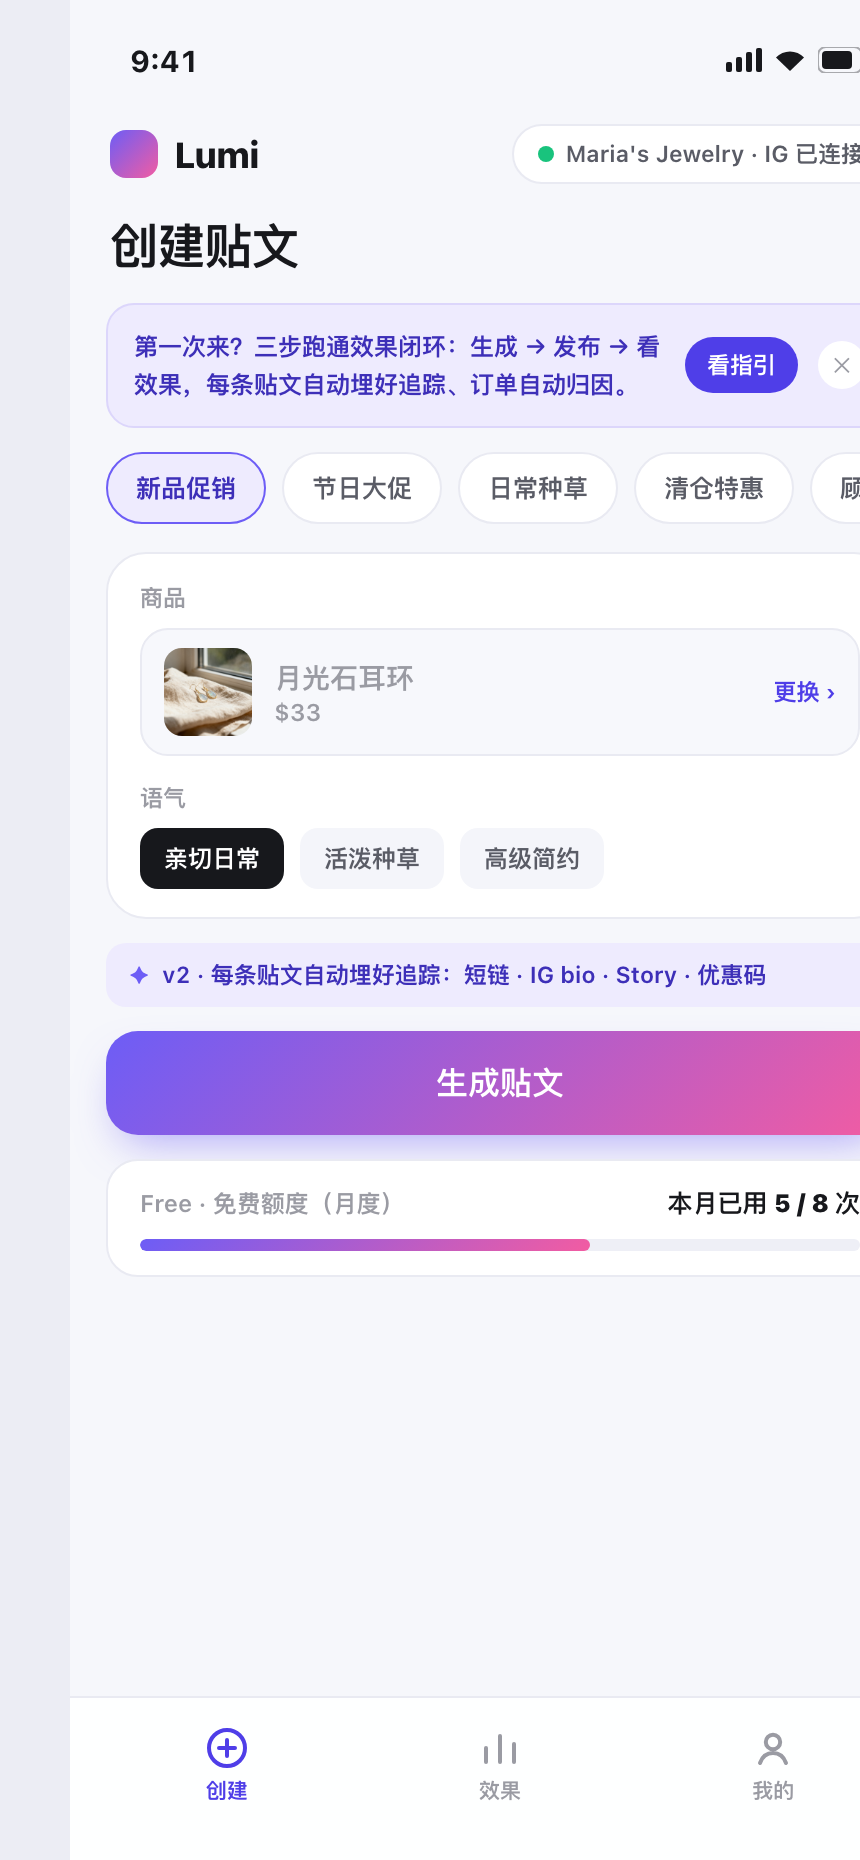
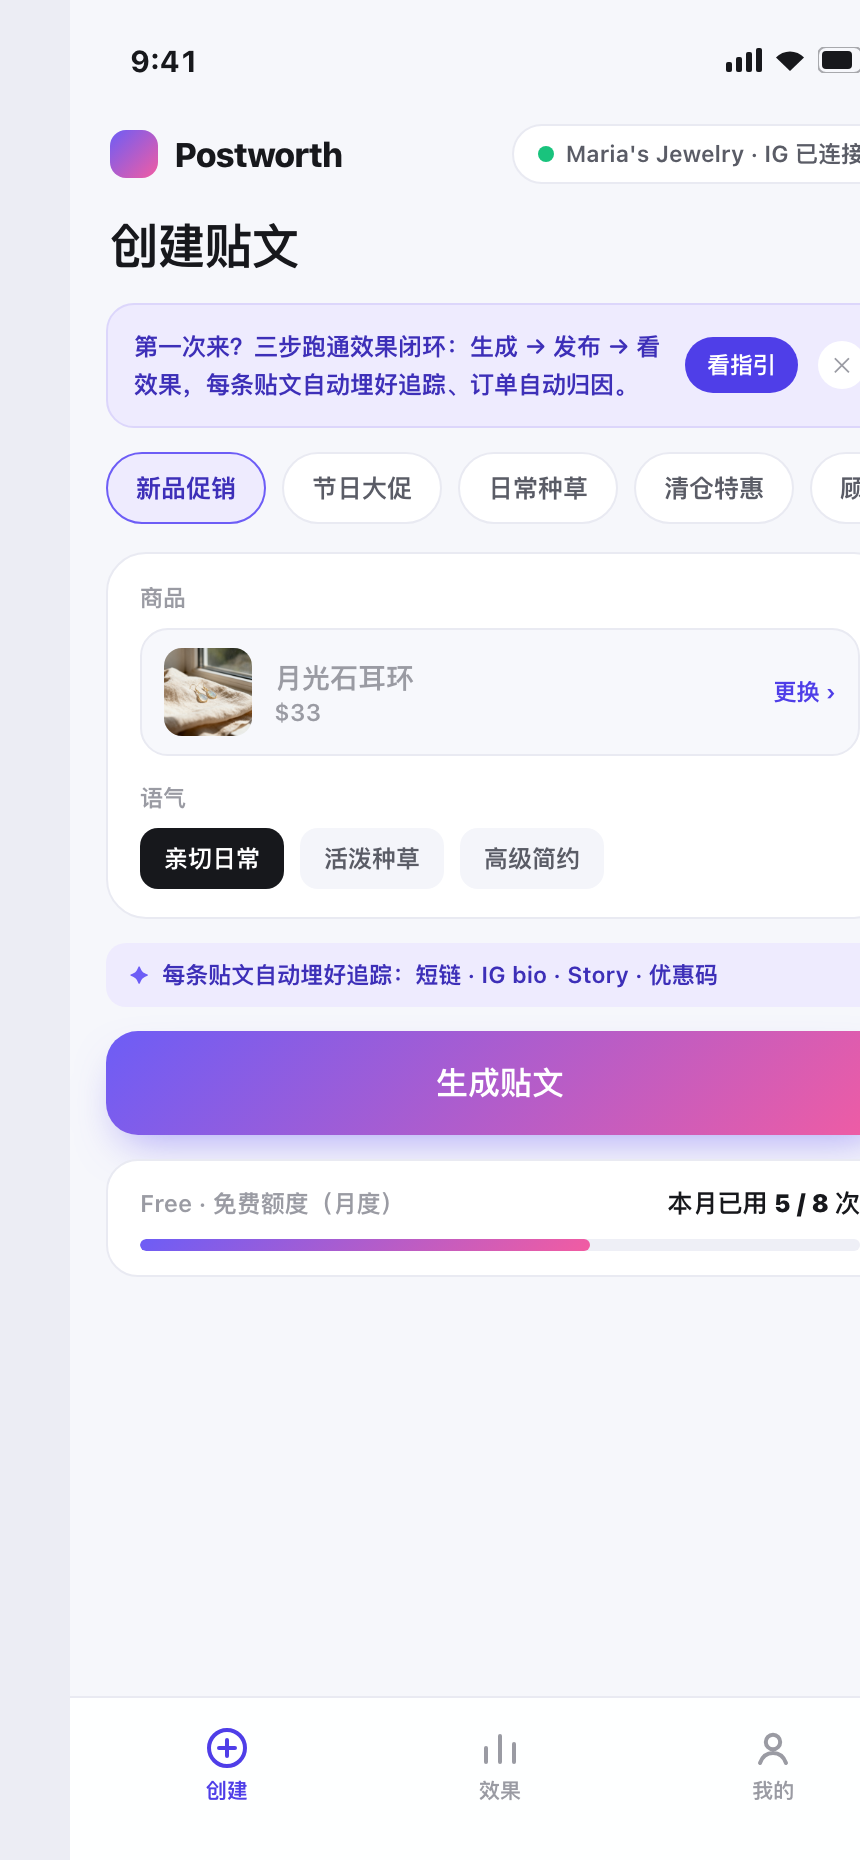
Rebrand: Lumi → Postworth，作为独立产品发布
产品重命名并去除旧版本叙事：品牌名、助手名、追踪短链域名
（lumi.to → postworth.to）、界面截图全部更新；README 重写为
独立产品叙事，新增「为什么叫 Postworth」（名字即主张）。

Changed region(s): [[0.1814, 0.4989, 0.907, 0.5301], [0.2116, 0.0624, 0.393, 0.0935]]

diff --git a/index.html b/index.html
@@ -3,7 +3,7 @@
 <head>
 <meta charset="UTF-8">
 <meta name="viewport" content="width=device-width, initial-scale=1, viewport-fit=cover">
-<title>Lumi v2 · 可交互原型</title>
+<title>Postworth · 可交互原型</title>
 <style>
   :root{
     --brand:#6D5DF6; --brand-deep:#4F3EE8; --brand-soft:#EEEBFE; --brand-ink:#3D2FB8;
@@ -41,7 +41,7 @@
 
   .pb{padding:6px 18px 24px;display:flex;flex-direction:column;gap:12px;flex:1}
   .appbar{display:flex;align-items:center;justify-content:space-between;padding:2px 2px 0}
-  .brandmark{display:flex;align-items:center;gap:8px;font-weight:800;font-size:18px;letter-spacing:-.2px}
+  .brandmark{display:flex;align-items:center;gap:8px;font-weight:800;font-size:17px;letter-spacing:-.3px}
   .brandmark .dot{width:24px;height:24px;border-radius:8px;background:var(--grad)}
   .shopchip{display:flex;align-items:center;gap:6px;font-size:11.5px;font-weight:600;color:var(--ink2);background:#fff;border:1px solid var(--line);border-radius:100px;padding:6px 12px}
   .shopchip i{width:8px;height:8px;border-radius:50%;background:#19C37D;display:inline-block}
@@ -392,11 +392,11 @@
   <aside class="side">
     <div class="side-inner">
       <div>
-        <span class="g-eyebrow">Lumi v2 · 可交互原型</span>
+        <span class="g-eyebrow">Postworth · 可交互原型</span>
         <div class="g-quote">「贴文发了，订单也来了——<br>但两者之间，一片漆黑。」<span>—— Maria，手工耳环店主（演示用户）</span></div>
       </div>
       <div>
-        <div class="g-h">v2 解决方案 · 效果闭环</div>
+        <div class="g-h">解决方案 · 效果闭环</div>
         <div class="loop">
           <span class="lp"><i>① 生成</i>自动埋好追踪<em>短链 · bio · Story · 优惠码</em></span><span class="arr">→</span>
           <span class="lp"><i>② 发布</i>一键到 Instagram<em>bio 链接自动更新</em></span><span class="arr">→</span>
@@ -436,7 +436,7 @@
         <section class="page active" id="page-create">
           <div class="pb">
             <div class="appbar">
-              <div class="brandmark"><span class="dot"></span>Lumi</div>
+              <div class="brandmark"><span class="dot"></span>Postworth</div>
               <button class="shopchip" id="shopChip" data-action="ig-manage"><i></i><span id="shopChipTxt"></span></button>
             </div>
             <h1 class="pg-title">创建贴文</h1>
@@ -454,7 +454,7 @@
                 <div class="seg" id="toneSeg"></div>
               </div>
             </div>
-            <div class="v2hint">v2 · 每条贴文自动埋好追踪：短链 · IG bio · Story · 优惠码</div>
+            <div class="v2hint">每条贴文自动埋好追踪：短链 · IG bio · Story · 优惠码</div>
             <button class="cta" id="ctaGen" data-action="generate">生成贴文</button>
             <div class="quota" id="quotaCard"></div>
           </div>
@@ -464,7 +464,7 @@
           <div class="rs-wrap">
             <div class="dashhead">
               <h1>效果</h1>
-              <button class="chatsm" data-action="open-chat" title="Lumi 助手">✦ 问助手</button>
+              <button class="chatsm" data-action="open-chat" title="Postworth 助手">✦ 问助手</button>
             </div>
             <div class="sync" id="syncLine"></div>
             <div id="rsBody"></div>
@@ -491,20 +491,20 @@
               <button class="demobtn" data-action="demo-ig"><i>🔌</i>断开 IG 连接（验证未授权状态）</button>
               <button class="demobtn" data-action="demo-reset"><i>↺</i>重置演示</button>
             </div>
-            <div class="pf-note">Lumi v2 · Part B 可交互原型 · 所有数据为 mock<br>真实产品中，额度校验与事件上报发生在服务端</div>
+            <div class="pf-note">Postworth · 可交互原型 · 所有数据为 mock<br>真实产品中，额度校验与事件上报发生在服务端</div>
           </div>
         </section>
 
         <section class="page" id="page-generate">
           <div class="genhead">
             <h1>正在生成…</h1>
-            <p>v2 · 发布前自动埋好效果追踪</p>
+            <p>发布前自动埋好效果追踪</p>
           </div>
           <div class="genlist" id="genList"></div>
           <div class="genfail" id="genFail">
             <div class="card">
               <b>生成超时（AI 服务无响应）</b>
-              <p>本次<b>未消耗额度</b>——失败不扣次数，重试即可。这是文档定义的异常规则之一。</p>
+              <p>本次<b>未消耗额度</b>——失败不扣次数，重试即可。</p>
             </div>
             <button class="cta" data-action="retry-gen">重试生成</button>
           </div>
@@ -538,7 +538,7 @@
         <section class="page" id="page-chat">
           <div class="pushbar">
             <button class="backbtn" data-action="back">‹</button>
-            <div class="pb-t"><b>Lumi 助手</b><span>效果分析 · 演示模式（回复为预设内容）</span></div>
+            <div class="pb-t"><b>Postworth 助手</b><span>效果分析 · 演示模式（回复为预设内容）</span></div>
           </div>
           <div class="chat-log" id="chatLog"></div>
           <div class="chat-input">
@@ -605,8 +605,8 @@
 
       <div class="guide" id="guide">
         <div class="guide-card">
-          <span class="g-eyebrow">Lumi v2 · 可交互原型</span>
-          <div class="g-quote">「贴文发了，订单也来了——但两者之间，一片漆黑。」<span>—— Maria，手工耳环店主。v2 要做的，就是接通这两条管道。</span></div>
+          <span class="g-eyebrow">Postworth · 可交互原型</span>
+          <div class="g-quote">「贴文发了，订单也来了——但两者之间，一片漆黑。」<span>—— Maria，手工耳环店主。Postworth 要做的，就是接通这两条管道。</span></div>
           <div class="g-h">怎么用 · 效果闭环</div>
           <div class="loop">
             <span class="lp"><i>① 生成</i>自动埋好追踪<em>短链 · bio · Story · 优惠码</em></span><span class="arr">→</span>
@@ -830,7 +830,7 @@ function onGenSuccess(){
   state.draft={
     tpl:state.template, pid:state.pid, tone:state.tone,
     caption:CAPTIONS[state.template](p), story:STORY_TXT[state.template],
-    link:'lumi.to/'+Math.random().toString(36).slice(2,6), code:'MIA15'
+    link:'postworth.to/'+Math.random().toString(36).slice(2,6), code:'MIA15'
   };
   markMs('gen'); renderQuota(); renderResult(); show('page-result');
 }
@@ -838,7 +838,7 @@ function renderResult(){
   var d=state.draft, p=PRODUCTS[d.pid];
   $('#resultQuota').textContent = state.plan==='free' ? ('本次生成成功 · 本月已用 '+quotaText()+' 次') : ('Pro · '+quotaText());
   $('#resultBody').innerHTML =
-    '<div class="result"><span class="v2tag">v2 · 自动埋链</span>'+
+    '<div class="result"><span class="v2tag">自动埋链</span>'+
       '<div class="postprev"><img src="'+p.img+'" alt=""><div class="pp-cap"><b>贴文文案已生成</b>'+d.caption+'</div></div>'+
       '<div class="storyprev"><span class="ring"><img src="'+p.img+'" alt=""></span><span class="st-t"><b>配套 Story</b><span>'+d.story+'</span></span><span class="stlink">链接贴纸</span></div>'+
       '<ul class="tracklist">'+
@@ -915,9 +915,9 @@ function renderResults(){
     insight='<div class="insight"><div class="ins-head">行动建议</div><p>《'+pending.title+'》的数据正在回传。24 小时后，这里会告诉你它带来了多少订单。</p><div class="ins-ctas"><button class="ins-btn" data-action="fast-forward">⏩ 快进 24 小时（演示）</button></div></div>';
   } else if(newReported){
     var ctr=newReported.imp?(newReported.clicks/newReported.imp*100):0;
-    insight='<div class="insight"><div class="ins-head">行动建议</div><p>《'+newReported.title+'》点击率 <b>'+ctr.toFixed(1)+'%</b>（账号均值 '+avgCtr.toFixed(1)+'%），带来 <b>'+newReported.orders+' 单 · '+fmt$(newReported.revenue)+'</b>。<b>'+newReported.tpl+' × Story</b> 组合持续有效——建议保持，并固定晚 8 点发布。</p><div class="ins-ctas"><button class="ins-btn" data-action="prefill-gen" data-tpl="'+newReported.tpl+'">按建议生成 →</button><button class="ins-btn alt" data-action="open-chat-q" data-q="为什么月光石这条效果好？">问 Lumi 助手</button></div></div>';
+    insight='<div class="insight"><div class="ins-head">行动建议</div><p>《'+newReported.title+'》点击率 <b>'+ctr.toFixed(1)+'%</b>（账号均值 '+avgCtr.toFixed(1)+'%），带来 <b>'+newReported.orders+' 单 · '+fmt$(newReported.revenue)+'</b>。<b>'+newReported.tpl+' × Story</b> 组合持续有效——建议保持，并固定晚 8 点发布。</p><div class="ins-ctas"><button class="ins-btn" data-action="prefill-gen" data-tpl="'+newReported.tpl+'">按建议生成 →</button><button class="ins-btn alt" data-action="open-chat-q" data-q="为什么月光石这条效果好？">问 Postworth 助手</button></div></div>';
   } else {
-    insight='<div class="insight"><div class="ins-head">行动建议</div><p>带 Story 的贴文下单率比纯贴文高 <b>60%</b>。下次生成建议保留 Story 组合，并优先在晚 8 点发布。</p><div class="ins-ctas"><button class="ins-btn" data-action="prefill-gen" data-tpl="'+bt+'">按建议生成（'+bt+'）→</button><button class="ins-btn alt" data-action="open-chat-q" data-q="为什么月光石这条效果好？">问 Lumi 助手</button></div></div>';
+    insight='<div class="insight"><div class="ins-head">行动建议</div><p>带 Story 的贴文下单率比纯贴文高 <b>60%</b>。下次生成建议保留 Story 组合，并优先在晚 8 点发布。</p><div class="ins-ctas"><button class="ins-btn" data-action="prefill-gen" data-tpl="'+bt+'">按建议生成（'+bt+'）→</button><button class="ins-btn alt" data-action="open-chat-q" data-q="为什么月光石这条效果好？">问 Postworth 助手</button></div></div>';
   }
 
   var rows=state.posts.map(function(p){
@@ -978,7 +978,7 @@ function openPost(id){
       '<div class="attr-row"><span>互动数据</span><b>赞 '+p.likes+'（IG Insights）</b></div>'+
     '</div>'+
     '<div class="card sparkcard"><div class="sc-t">近 7 天点击趋势</div>'+sparkSVG(spark,'#0B8F6B')+'</div>'+
-    '<div class="dtbtns"><button class="btn-ghost" data-action="open-chat-q" data-q="为什么月光石这条效果好？">问 Lumi 助手</button><button class="btn-solid" data-action="prefill-gen" data-tpl="'+p.tpl+'">按此模板再生成</button></div>';
+    '<div class="dtbtns"><button class="btn-ghost" data-action="open-chat-q" data-q="为什么月光石这条效果好？">问 Postworth 助手</button><button class="btn-solid" data-action="prefill-gen" data-tpl="'+p.tpl+'">按此模板再生成</button></div>';
   show('page-detail');
 }
 

diff --git a/README.md b/README.md
@@ -1,22 +1,28 @@
-# Lumi · Instagram 内容营销效果闭环工具（可交互原型）
+# Postworth · 帮卖家看清「贴文 → 生意」
 
 > **贴文发了，就知道这条贴文值多少钱。**
 
-Lumi 是一款面向独立卖家与小微商家的 Instagram 内容营销工具。这份**高保真可交互原型**演示了 v2 的核心命题——**效果闭环**：贴文在发布前自动埋好追踪能力，发布后自动回收数据并归因订单，让卖家第一次看清「内容 → 生意」的完整链路。
+Postworth 是一款面向独立卖家与小微商家的 Instagram 内容营销工具：帮你生成贴文，并告诉你**每条贴文到底带来了几单、赚了多少钱**——AI 生成贴文时自动埋好追踪（短链 / 优惠码 / bio 轮换 / 配套 Story），发布后数据自动回传、订单自动归因，效果面板直接显示每条贴文的收入，让小卖家第一次看清「内容 → 生意」的完整链路。
+
+这份仓库是它的**高保真可交互原型**，纯前端单文件 H5，打开即可完整体验从生成、发布、数据回传到付费升级的效果闭环。
 
 **在线演示**：https://timedetective.github.io/lumi-prototype/
 
 ---
 
+## 为什么叫 Postworth
+
+产品要回答的唯一问题，就是每条贴文的 **post worth**——它值多少钱。名字即主张：卖家不需要又一个「文案生成器」，需要的是每一次内容投入的回报答案。
+
 ## 它解决什么问题
 
-小卖家在 IG 上发贴文，点赞涨了、店铺也来单了——但没人说得清**这条贴文到底带来了几单、值多少钱**。内容与生意之间一片漆黑，带来的直接后果：
+小卖家在 IG 上发贴文，点赞涨了、店铺也来单了——但没人说得清**这条贴文到底带来了几单、值多少钱**。内容与生意之间一片漆黑，带来的直接后果是：
 
 - **不敢投入**：不知道哪条贴文有效，该多发还是停发全凭感觉；
 - **付费焦虑**：工具月费 $19，无法证明「贴文赚回了几倍工具费」，续费意愿快速衰减；
 - **无法优化**：换模板、换语气、改发布时间，都缺少数据依据。
 
-Lumi v2 的答案：**每条贴文自动埋点（追踪短链 / bio 轮换 / 配套 Story / 专属优惠码），发布后数据自动回传（点击实时统计 / IG 曝光每日同步 / 订单双通道归因），效果面板把收入放在最大字号，行动建议再把数据结论反哺到下一次生成。**
+Postworth 的答案：**每条贴文自动埋点（追踪短链 / bio 轮换 / 配套 Story / 专属优惠码），发布后数据自动回传（点击实时统计 / IG 曝光每日同步 / 订单双通道归因），效果面板把收入放在最大字号，行动建议再把数据结论反哺到下一次生成。**
 
 ## 界面一览
 
@@ -74,8 +80,8 @@ open lumi-prototype/index.html   # 或用 Chrome / Safari 直接打开
 
 ## 技术说明
 
-- **纯前端单文件 H5**（`index.html`，无构建、无依赖、无框架），约 2000 行，可直接部署到任何静态托管；
-- 原型内置状态机驱动全部页面与弹层（生成 / 发布 / 回传 / 升级），35 个交互动作事件委托统一分发；
+- **纯前端单文件 H5**（`index.html`，无构建、无依赖、无框架），可直接部署到任何静态托管；
+- 原型内置状态机驱动全部页面与弹层（生成 / 发布 / 回传 / 升级），34 个交互动作事件委托统一分发；
 - 全部数据为演示 mock（店铺 Maria's Jewelry），无真实用户数据；「⏩ 快进」按钮仅存在于原型中。
 
 ## 目录结构
